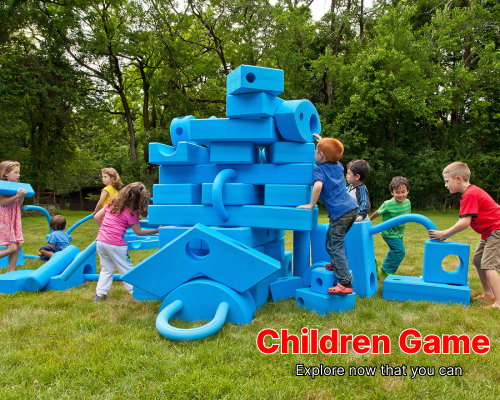
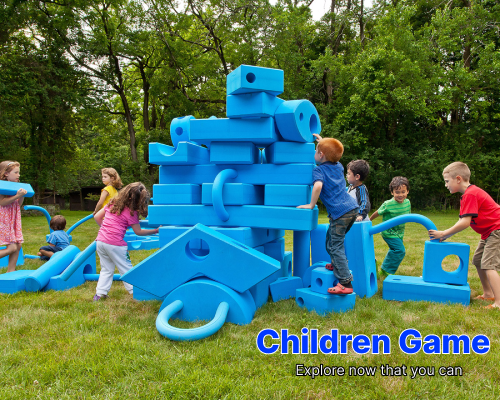
changed color

Changed region(s): [[0.51, 0.81, 0.99, 0.9]]

diff --git a/style.css b/style.css
@@ -31,7 +31,7 @@ footer {
 footer {
   padding-bottom: 2rem;
   padding-top: 8rem;
-  background-color: #F00;
+  background-color: #0038FF;
 
 }
 
@@ -59,8 +59,8 @@ nav {
   left: 0;
   width: 100%;
   z-index: 10;
-  border-top: 40px solid red;
-  border-bottom: 30px solid red;
+  border-top: 40px solid #0038FF;
+  border-bottom: 30px solid #0038FF;
   background-color: #fff;
 }
 
@@ -82,7 +82,7 @@ nav::before {
 
 #menu-icon {
   display: none;
-  color: #F00;
+  color: #0038FF;
   /* z-index: 10001; */
   z-index: 10;
   cursor: pointer;
@@ -118,7 +118,7 @@ nav::before {
 }
 
 .nav-link {
-  color: #F00;
+  color: #0038FF;
   font-size: 2rem;
   font-style: normal;
   font-weight: 800;
@@ -149,7 +149,7 @@ nav::before {
   width: 30%;
   display: flex;
   align-items: center;
-  border: 3px solid #F00;
+  border: 3px solid #0038FF;
   padding: 2rem;
 }
 
@@ -169,7 +169,7 @@ nav::before {
 .heading-box {
   text-align: center;
   border-radius: 3.5rem;
-  border: 5px solid #F00;
+  border: 5px solid #0038FF;
   margin-top: 3.8rem;
   padding: 5rem 3rem;
 }
@@ -195,7 +195,7 @@ nav::before {
 }
 
 .heading-box h1 {
-  color: #F00;
+  color: #0038FF;
   font-size: 9.6rem;
   font-style: normal;
   font-weight: 800;
@@ -206,7 +206,7 @@ nav::before {
 }
 
 .heading-box p {
-  color: #F00;
+  color: #0038FF;
   font-size: 4.5rem;
   font-style: normal;
   font-weight: 800;
@@ -230,12 +230,12 @@ nav::before {
 
 
 .feature:not(:last-child) {
-  border-right: 6px solid #F00;
+  border-right: 6px solid #0038FF;
 
 }
 
 .feature p {
-  color: #F00;
+  color: #0038FF;
   font-size: 2.4rem;
   font-style: normal;
   font-weight: 800;
@@ -263,7 +263,7 @@ nav::before {
 }
 
 .focus-text p {
-  color: #F00;
+  color: #0038FF;
   font-size: 2rem;
   font-style: normal;
   font-weight: 800;
@@ -282,7 +282,7 @@ nav::before {
 }
 
 .mission h3 {
-  color: #F00;
+  color: #0038FF;
   font-size: 2.8rem;
   font-style: normal;
   font-weight: 800;
@@ -299,7 +299,7 @@ nav::before {
 }
 
 .help h2 {
-  color: #F00;
+  color: #0038FF;
   text-shadow: 0px 4px 4px rgba(0, 0, 0, 0.25), 0px 4px 4px rgba(0, 0, 0, 0.25), 0px 4px 4px rgba(0, 0, 0, 0.25);
   font-family: Inter;
   font-size: 3rem;
@@ -321,7 +321,7 @@ nav::before {
 }
 
 .help p span {
-  color: #F00;
+  color: #0038FF;
 }
 
 .trip h2 {
@@ -340,7 +340,7 @@ nav::before {
   content: "";
   width: 8.7rem;
   height: 1.2rem;
-  background-color: #F00;
+  background-color: #0038FF;
   position: absolute;
   top: 50%;
   transform: translateY(-50%);
@@ -406,7 +406,7 @@ div:where(.swal2-container) .swal2-html-container {
 }
 
 div:where(.swal2-container) button:where(.swal2-styled).swal2-confirm {
-  background-color: #F00;
+  background-color: #0038FF;
 }
 
 div:where(.swal2-container) div:where(.swal2-popup) {

diff --git a/bookflight/book.css b/bookflight/book.css
@@ -8,7 +8,7 @@
 }
 
 .flight h2 {
-  background-color: #F00;
+  background-color: #0038FF;
   color: #fff;
   font-size: 3.2rem;
   font-style: normal;
@@ -62,10 +62,10 @@
 }
 
 .proceed {
-  background-color: #F00;
+  background-color: #0038FF;
   color: #fff;
   padding: 1.5rem 0rem 1.4rem 0rem;
-  border: 1px solid #F00;
+  border: 1px solid #0038FF;
   color: #FFF;
   font-size: 3rem;
   font-style: normal;
@@ -120,13 +120,13 @@
   font-style: normal;
   font-weight: 400;
   line-height: normal;
-  background-color: #F00;
+  background-color: #0038FF;
   padding: .5rem 1rem;
   text-align: center;
 }
 
 .choice p {
-  color: #F00;
+  color: #0038FF;
   font-size: 2rem;
   font-style: normal;
   font-weight: 800;
@@ -145,8 +145,8 @@
   width: 12.2rem;
   height: 4rem;
   border-radius: 2rem;
-  border: 1px solid #F00;
-  background: #F00;
+  border: 1px solid #0038FF;
+  background: #0038FF;
   box-shadow: 0px 4px 4px 0px rgba(0, 0, 0, 0.25), 0px 4px 4px 0px rgba(0, 0, 0, 0.25), 0px 4px 4px 0px rgba(0, 0, 0, 0.25), 0px 4px 4px 0px rgba(0, 0, 0, 0.25);
 }
 
@@ -269,7 +269,7 @@
 
 .note {
   margin-top: 4rem;
-  background-color: #F00;
+  background-color: #0038FF;
   color: #fff;
   font-size: 1.3rem;
   font-style: normal;

diff --git a/index.html b/index.html
@@ -15,7 +15,7 @@
     <header>
       <nav class="nav-section">
         <div class="logo-box">
-          <a href="#"><img src="img/logo.png" alt="KJM" class="logo"></a>
+          <a href="#"><img src="img/head-logo.png" alt="KJM" class="logo"></a>
         </div>
         <ul class="nav-list">
           <li class="nav-item explorer"><a href="#" class="nav-link">Explore</a></li>
